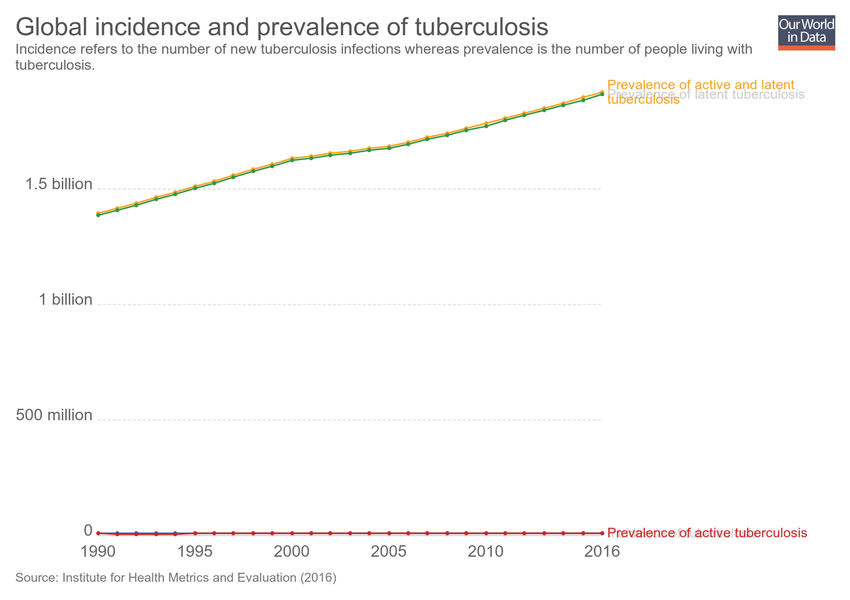
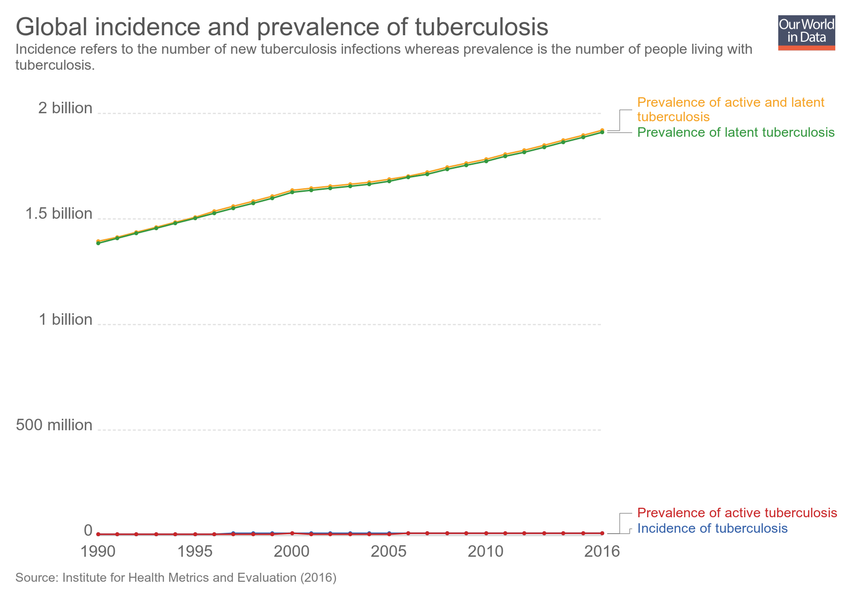
Updating chart global-incidence-and-prevalence-of-tuberculosis

diff --git a/grapher/hiv-expenditure.html b/grapher/hiv-expenditure.html
@@ -1,4 +1,4 @@
-<!doctype html><html><head><meta name="viewport" content="width=device-width, initial-scale=1" /><title>HIV expenditure on prevention and treatment - Our World in Data</title><meta name="description" content="Total expenditure on HIV/AIDS prevention and treatment, measured in US$." /><link rel="canonical" href="https://ourworldindata.org/grapher/hiv-expenditure" /><meta property="fb:app_id" content="1149943818390250" /><meta property="og:url" content="https://ourworldindata.org/grapher/hiv-expenditure" /><meta property="og:title" content="HIV expenditure on prevention and treatment" /><meta property="og:description" content="Total expenditure on HIV/AIDS prevention and treatment, measured in US$." /><meta property="og:image" content="https://ourworldindata.org/grapher/exports/hiv-expenditure.png?v=1" /><meta property="og:image:width" content="850" /><meta property="og:image:height" content="600" /><meta property="og:site_name" content="Our World in Data" /><meta name="twitter:card" content="summary_large_image" /><meta name="twitter:site" content="@OurWorldInData" /><meta name="twitter:creator" content="@OurWorldInData" /><meta name="twitter:title" content="HIV expenditure on prevention and treatment" /><meta name="twitter:description" content="Total expenditure on HIV/AIDS prevention and treatment, measured in US$." /><meta name="twitter:image" content="https://ourworldindata.org/grapher/exports/hiv-expenditure.png?v=1" /><style>
+<!doctype html><html><head><meta name="viewport" content="width=device-width, initial-scale=1" /><title>HIV expenditure - Our World in Data</title><meta name="description" content="Country-reported HIV expenditure, measured in current US$ per year. The year of reported expenditure varies by country; this information can be found by hovering over a given country." /><link rel="canonical" href="https://ourworldindata.org/grapher/hiv-expenditure" /><meta property="fb:app_id" content="1149943818390250" /><meta property="og:url" content="https://ourworldindata.org/grapher/hiv-expenditure" /><meta property="og:title" content="HIV expenditure" /><meta property="og:description" content="Country-reported HIV expenditure, measured in current US$ per year. The year of reported expenditure varies by country; this information can be found by hovering over a given country." /><meta property="og:image" content="https://ourworldindata.org/grapher/exports/hiv-expenditure.png?v=1" /><meta property="og:image:width" content="850" /><meta property="og:image:height" content="600" /><meta property="og:site_name" content="Our World in Data" /><meta name="twitter:card" content="summary_large_image" /><meta name="twitter:site" content="@OurWorldInData" /><meta name="twitter:creator" content="@OurWorldInData" /><meta name="twitter:title" content="HIV expenditure" /><meta name="twitter:description" content="Country-reported HIV expenditure, measured in current US$ per year. The year of reported expenditure varies by country; this information can be found by hovering over a given country." /><meta name="twitter:image" content="https://ourworldindata.org/grapher/exports/hiv-expenditure.png?v=1" /><style>
         html, body {
             height: 100%;
             margin: 0;
@@ -20,19 +20,8 @@
         }
     </style><noscript><style>
                     figure { display: none !important; }
-                </style></noscript><link rel="stylesheet" href="https://ourworldindata.org/grapher/assets/commons.bundle.d1960e3da364bb657ce8.css" /><link rel="preload" href="/grapher/data/variables/96328.json?v=1" as="fetch" crossorigin /></head><body class="singleChart"><figure data-grapher-src="/grapher/hiv-expenditure"></figure><noscript id="fallback"><img src="/grapher/exports/hiv-expenditure.svg" /><p>Interactive visualization requires JavaScript</p></noscript><script src="https://cdn.polyfill.io/v2/polyfill.min.js?features=es6,fetch"></script><script src="https://ourworldindata.org/grapher/assets/commons.bundle.d1960e3da364bb657ce8.js"></script><script src="https://ourworldindata.org/grapher/assets/charts.bundle.d1960e3da364bb657ce8.js"></script><script>
-        var jsonConfig = {"map":{"projection":"World","targetYear":2015,"variableId":96328,"timeTolerance":3,"baseColorScheme":"YlGnBu","isManualBuckets":true,"colorSchemeLabels":[],"colorSchemeValues":[50000000,100000000,150000000,200000000,250000000,300000000,350000000,400000000],"defaultProjection":"World","colorSchemeMinValue":0,"customNumericColors":[null,null],"customCategoryColors":{},"customCategoryLabels":{},"customHiddenCategories":{}},"tab":"map","slug":"hiv-expenditure","type":"LineChart","title":"HIV expenditure on prevention and treatment","xAxis":{"scaleType":"linear"},"yAxis":{"min":0,"scaleType":"linear"},"version":1,"subtitle":"Total expenditure on HIV/AIDS prevention and treatment, measured in US$.","hasMapTab":true,"stackMode":"absolute","dimensions":[{"display":{"shortUnit":"$"},"property":"y","variableId":96328}],"hasChartTab":true,"isPublished":true,"selectedData":[{"index":0,"entityId":123},{"index":0,"entityId":237},{"index":0,"entityId":95}],"addCountryMode":"add-country","id":2488};
-        var figure = document.getElementsByTagName("figure")[0];
-        try {
-            window.App = {};
-            window.Global = { rootUrl: 'https://ourworldindata.org/grapher' };
-            ChartView.bootstrap({ jsonConfig: jsonConfig, containerNode: figure })
-        } catch (err) {
-            figure.innerHTML = "<img src=\"/grapher/exports/hiv-expenditure.svg\"/><p>Unable to load interactive visualization</p>";
-            figure.setAttribute("id", "fallback");
-            throw err;
-        }
-    </script></body></html>d":219},{"index":0,"entityId":23},{"index":0,"entityId":25},{"index":0,"entityId":26},{"index":0,"entityId":28},{"index":0,"entityId":29},{"index":0,"entityId":30},{"index":0,"entityId":4},{"index":0,"entityId":31},{"index":0,"entityId":32},{"index":0,"entityId":34},{"index":0,"entityId":35},{"index":0,"entityId":36},{"index":0,"entityId":37},{"index":0,"entityId":39},{"index":0,"entityId":40},{"index":0,"entityId":41},{"index":0,"entityId":18581},{"index":0,"entityId":42},{"index":0,"entityId":43},{"index":0,"entityId":174},{"index":0,"entityId":173},{"index":0,"entityId":172},{"index":0,"entityId":171},{"index":0,"entityId":170},{"index":0,"entityId":169},{"index":0,"entityId":168},{"index":0,"entityId":166},{"index":0,"entityId":143}],"addCountryMode":"add-country","hideTitleAnnotation":true,"id":2293};
+                </style></noscript><link rel="stylesheet" href="https://ourworldindata.org/grapher/assets/commons.bundle.d1960e3da364bb657ce8.css" /><link rel="preload" href="/grapher/data/variables/85855.json?v=1" as="fetch" crossorigin /></head><body class="singleChart"><figure data-grapher-src="/grapher/hiv-expenditure"></figure><noscript id="fallback"><img src="/grapher/exports/hiv-expenditure.svg" /><p>Interactive visualization requires JavaScript</p></noscript><script src="https://cdn.polyfill.io/v2/polyfill.min.js?features=es6,fetch"></script><script src="https://ourworldindata.org/grapher/assets/commons.bundle.d1960e3da364bb657ce8.js"></script><script src="https://ourworldindata.org/grapher/assets/charts.bundle.d1960e3da364bb657ce8.js"></script><script>
+        var jsonConfig = {"map":{"projection":"World","targetYear":2016,"variableId":85855,"equalSizeBins":true,"timeTolerance":5,"baseColorScheme":"Purples","isManualBuckets":true,"colorSchemeLabels":[],"colorSchemeValues":[50000000,100000000,200000000,300000000,400000000,500000000,750000000,1000000000],"defaultProjection":"World","colorSchemeMinValue":0,"customNumericColors":[null,null],"customCategoryColors":{},"customCategoryLabels":{},"customHiddenCategories":{}},"tab":"map","slug":"hiv-expenditure","type":"LineChart","title":"HIV expenditure","xAxis":{"scaleType":"linear"},"yAxis":{"min":0,"scaleType":"linear"},"version":1,"subtitle":"Country-reported HIV expenditure, measured in current US$ per year. The year of reported expenditure varies by country; this information can be found by hovering over a given country.","hasMapTab":true,"stackMode":"absolute","dimensions":[{"display":{},"property":"y","variableId":85855}],"isAutoSlug":true,"sourceDesc":"UNAIDS","hasChartTab":false,"isPublished":true,"selectedData":[{"index":0,"entityId":84},{"index":0,"entityId":233},{"index":0,"entityId":229},{"index":0,"entityId":15},{"index":0,"entityId":16},{"index":0,"entityId":17},{"index":0,"entityId":19},{"index":0,"entityId":20},{"index":0,"entityId":21},{"index":0,"entityId":22},{"index":0,"entityId":219},{"index":0,"entityId":23},{"index":0,"entityId":25},{"index":0,"entityId":26},{"index":0,"entityId":28},{"index":0,"entityId":29},{"index":0,"entityId":30},{"index":0,"entityId":4},{"index":0,"entityId":31},{"index":0,"entityId":32},{"index":0,"entityId":34},{"index":0,"entityId":35},{"index":0,"entityId":36},{"index":0,"entityId":37},{"index":0,"entityId":39},{"index":0,"entityId":40},{"index":0,"entityId":41},{"index":0,"entityId":18581},{"index":0,"entityId":42},{"index":0,"entityId":43},{"index":0,"entityId":174},{"index":0,"entityId":173},{"index":0,"entityId":172},{"index":0,"entityId":171},{"index":0,"entityId":170},{"index":0,"entityId":169},{"index":0,"entityId":168},{"index":0,"entityId":166},{"index":0,"entityId":143}],"addCountryMode":"add-country","hideTitleAnnotation":true,"id":2293};
         var figure = document.getElementsByTagName("figure")[0];
         try {
             window.App = {};

diff --git a/grapher/global-incidence-and-prevalence-of-tuberculosis.html b/grapher/global-incidence-and-prevalence-of-tuberculosis.html
@@ -1,4 +1,4 @@
-<!doctype html><html><head><meta name="viewport" content="width=device-width, initial-scale=1" /><title>Global incidence and prevalence of tuberculosis - Our World in Data</title><meta name="description" content="Incidence refers to the number of new tuberculosis infections whereas prevalence is the number of people living with tuberculosis." /><link rel="canonical" href="https://ourworldindata.org/grapher/global-incidence-and-prevalence-of-tuberculosis" /><meta property="fb:app_id" content="1149943818390250" /><meta property="og:url" content="https://ourworldindata.org/grapher/global-incidence-and-prevalence-of-tuberculosis" /><meta property="og:title" content="Global incidence and prevalence of tuberculosis" /><meta property="og:description" content="Incidence refers to the number of new tuberculosis infections whereas prevalence is the number of people living with tuberculosis." /><meta property="og:image" content="https://ourworldindata.org/grapher/exports/global-incidence-and-prevalence-of-tuberculosis.png?v=1" /><meta property="og:image:width" content="850" /><meta property="og:image:height" content="600" /><meta property="og:site_name" content="Our World in Data" /><meta name="twitter:card" content="summary_large_image" /><meta name="twitter:site" content="@OurWorldInData" /><meta name="twitter:creator" content="@OurWorldInData" /><meta name="twitter:title" content="Global incidence and prevalence of tuberculosis" /><meta name="twitter:description" content="Incidence refers to the number of new tuberculosis infections whereas prevalence is the number of people living with tuberculosis." /><meta name="twitter:image" content="https://ourworldindata.org/grapher/exports/global-incidence-and-prevalence-of-tuberculosis.png?v=1" /><style>
+<!doctype html><html><head><meta name="viewport" content="width=device-width, initial-scale=1" /><title>Global incidence and prevalence of tuberculosis - Our World in Data</title><meta name="description" content="Incidence refers to the number of new tuberculosis infections whereas prevalence is the number of people living with tuberculosis." /><link rel="canonical" href="https://ourworldindata.org/grapher/global-incidence-and-prevalence-of-tuberculosis" /><meta property="fb:app_id" content="1149943818390250" /><meta property="og:url" content="https://ourworldindata.org/grapher/global-incidence-and-prevalence-of-tuberculosis" /><meta property="og:title" content="Global incidence and prevalence of tuberculosis" /><meta property="og:description" content="Incidence refers to the number of new tuberculosis infections whereas prevalence is the number of people living with tuberculosis." /><meta property="og:image" content="https://ourworldindata.org/grapher/exports/global-incidence-and-prevalence-of-tuberculosis.png?v=2" /><meta property="og:image:width" content="850" /><meta property="og:image:height" content="600" /><meta property="og:site_name" content="Our World in Data" /><meta name="twitter:card" content="summary_large_image" /><meta name="twitter:site" content="@OurWorldInData" /><meta name="twitter:creator" content="@OurWorldInData" /><meta name="twitter:title" content="Global incidence and prevalence of tuberculosis" /><meta name="twitter:description" content="Incidence refers to the number of new tuberculosis infections whereas prevalence is the number of people living with tuberculosis." /><meta name="twitter:image" content="https://ourworldindata.org/grapher/exports/global-incidence-and-prevalence-of-tuberculosis.png?v=2" /><style>
         html, body {
             height: 100%;
             margin: 0;
@@ -20,8 +20,8 @@
         }
     </style><noscript><style>
                     figure { display: none !important; }
-                </style></noscript><link rel="stylesheet" href="https://ourworldindata.org/grapher/assets/commons.bundle.d1960e3da364bb657ce8.css" /><link rel="preload" href="/grapher/data/variables/97748+97749+97747+97750.json?v=1" as="fetch" crossorigin /></head><body class="singleChart"><figure data-grapher-src="/grapher/global-incidence-and-prevalence-of-tuberculosis"></figure><noscript id="fallback"><img src="/grapher/exports/global-incidence-and-prevalence-of-tuberculosis.svg" /><p>Interactive visualization requires JavaScript</p></noscript><script src="https://cdn.polyfill.io/v2/polyfill.min.js?features=es6,fetch"></script><script src="https://ourworldindata.org/grapher/assets/commons.bundle.d1960e3da364bb657ce8.js"></script><script src="https://ourworldindata.org/grapher/assets/charts.bundle.d1960e3da364bb657ce8.js"></script><script>
-        var jsonConfig = {"map":{"projection":"World","colorSchemeLabels":[],"colorSchemeValues":[],"customNumericColors":[],"customCategoryColors":{},"customCategoryLabels":{},"customHiddenCategories":{}},"tab":"chart","slug":"global-incidence-and-prevalence-of-tuberculosis","type":"LineChart","title":"Global incidence and prevalence of tuberculosis","xAxis":{"scaleType":"linear"},"yAxis":{"min":0,"scaleType":"linear","canChangeScaleType":true},"version":1,"subtitle":"Incidence refers to the number of new tuberculosis infections whereas prevalence is the number of people living with tuberculosis.","hasMapTab":false,"stackMode":"absolute","dimensions":[{"display":{"name":"Incidence of tuberculosis","unit":"new infections","numDecimalPlaces":0},"property":"y","variableId":97748},{"display":{"name":"Prevalence of active and latent tuberculosis","unit":"people","numDecimalPlaces":0},"property":"y","variableId":97749},{"display":{"name":"Prevalence of active tuberculosis","unit":"people","numDecimalPlaces":0},"property":"y","variableId":97747},{"display":{"name":"Prevalence of latent tuberculosis","unit":"people","numDecimalPlaces":0},"property":"y","variableId":97750}],"isAutoSlug":true,"hasChartTab":true,"isPublished":true,"selectedData":[{"index":0,"entityId":355},{"index":1,"entityId":355},{"index":2,"entityId":355},{"index":3,"entityId":355}],"addCountryMode":"add-country","id":2923};
+                </style></noscript><link rel="stylesheet" href="https://ourworldindata.org/grapher/assets/commons.bundle.d1960e3da364bb657ce8.css" /><link rel="preload" href="/grapher/data/variables/97748+97749+97747+97750.json?v=2" as="fetch" crossorigin /></head><body class="singleChart"><figure data-grapher-src="/grapher/global-incidence-and-prevalence-of-tuberculosis"></figure><noscript id="fallback"><img src="/grapher/exports/global-incidence-and-prevalence-of-tuberculosis.svg" /><p>Interactive visualization requires JavaScript</p></noscript><script src="https://cdn.polyfill.io/v2/polyfill.min.js?features=es6,fetch"></script><script src="https://ourworldindata.org/grapher/assets/commons.bundle.d1960e3da364bb657ce8.js"></script><script src="https://ourworldindata.org/grapher/assets/charts.bundle.d1960e3da364bb657ce8.js"></script><script>
+        var jsonConfig = {"id":2923,"map":{"projection":"World","colorSchemeLabels":[],"colorSchemeValues":[],"customNumericColors":[],"customCategoryColors":{},"customCategoryLabels":{},"customHiddenCategories":{}},"tab":"chart","slug":"global-incidence-and-prevalence-of-tuberculosis","type":"LineChart","title":"Global incidence and prevalence of tuberculosis","xAxis":{"scaleType":"linear"},"yAxis":{"max":2100000000,"min":0,"scaleType":"linear","canChangeScaleType":true},"version":2,"subtitle":"Incidence refers to the number of new tuberculosis infections whereas prevalence is the number of people living with tuberculosis.","hasMapTab":false,"stackMode":"absolute","dimensions":[{"display":{"name":"Incidence of tuberculosis","unit":"new infections","numDecimalPlaces":0},"property":"y","variableId":97748},{"display":{"name":"Prevalence of active and latent tuberculosis","unit":"people","numDecimalPlaces":0},"property":"y","variableId":97749},{"display":{"name":"Prevalence of active tuberculosis","unit":"people","numDecimalPlaces":0},"property":"y","variableId":97747},{"display":{"name":"Prevalence of latent tuberculosis","unit":"people","numDecimalPlaces":0},"property":"y","variableId":97750}],"hasChartTab":true,"isPublished":true,"selectedData":[{"index":0,"entityId":355},{"index":1,"entityId":355},{"index":2,"entityId":355},{"index":3,"entityId":355}],"addCountryMode":"add-country"};
         var figure = document.getElementsByTagName("figure")[0];
         try {
             window.App = {};
